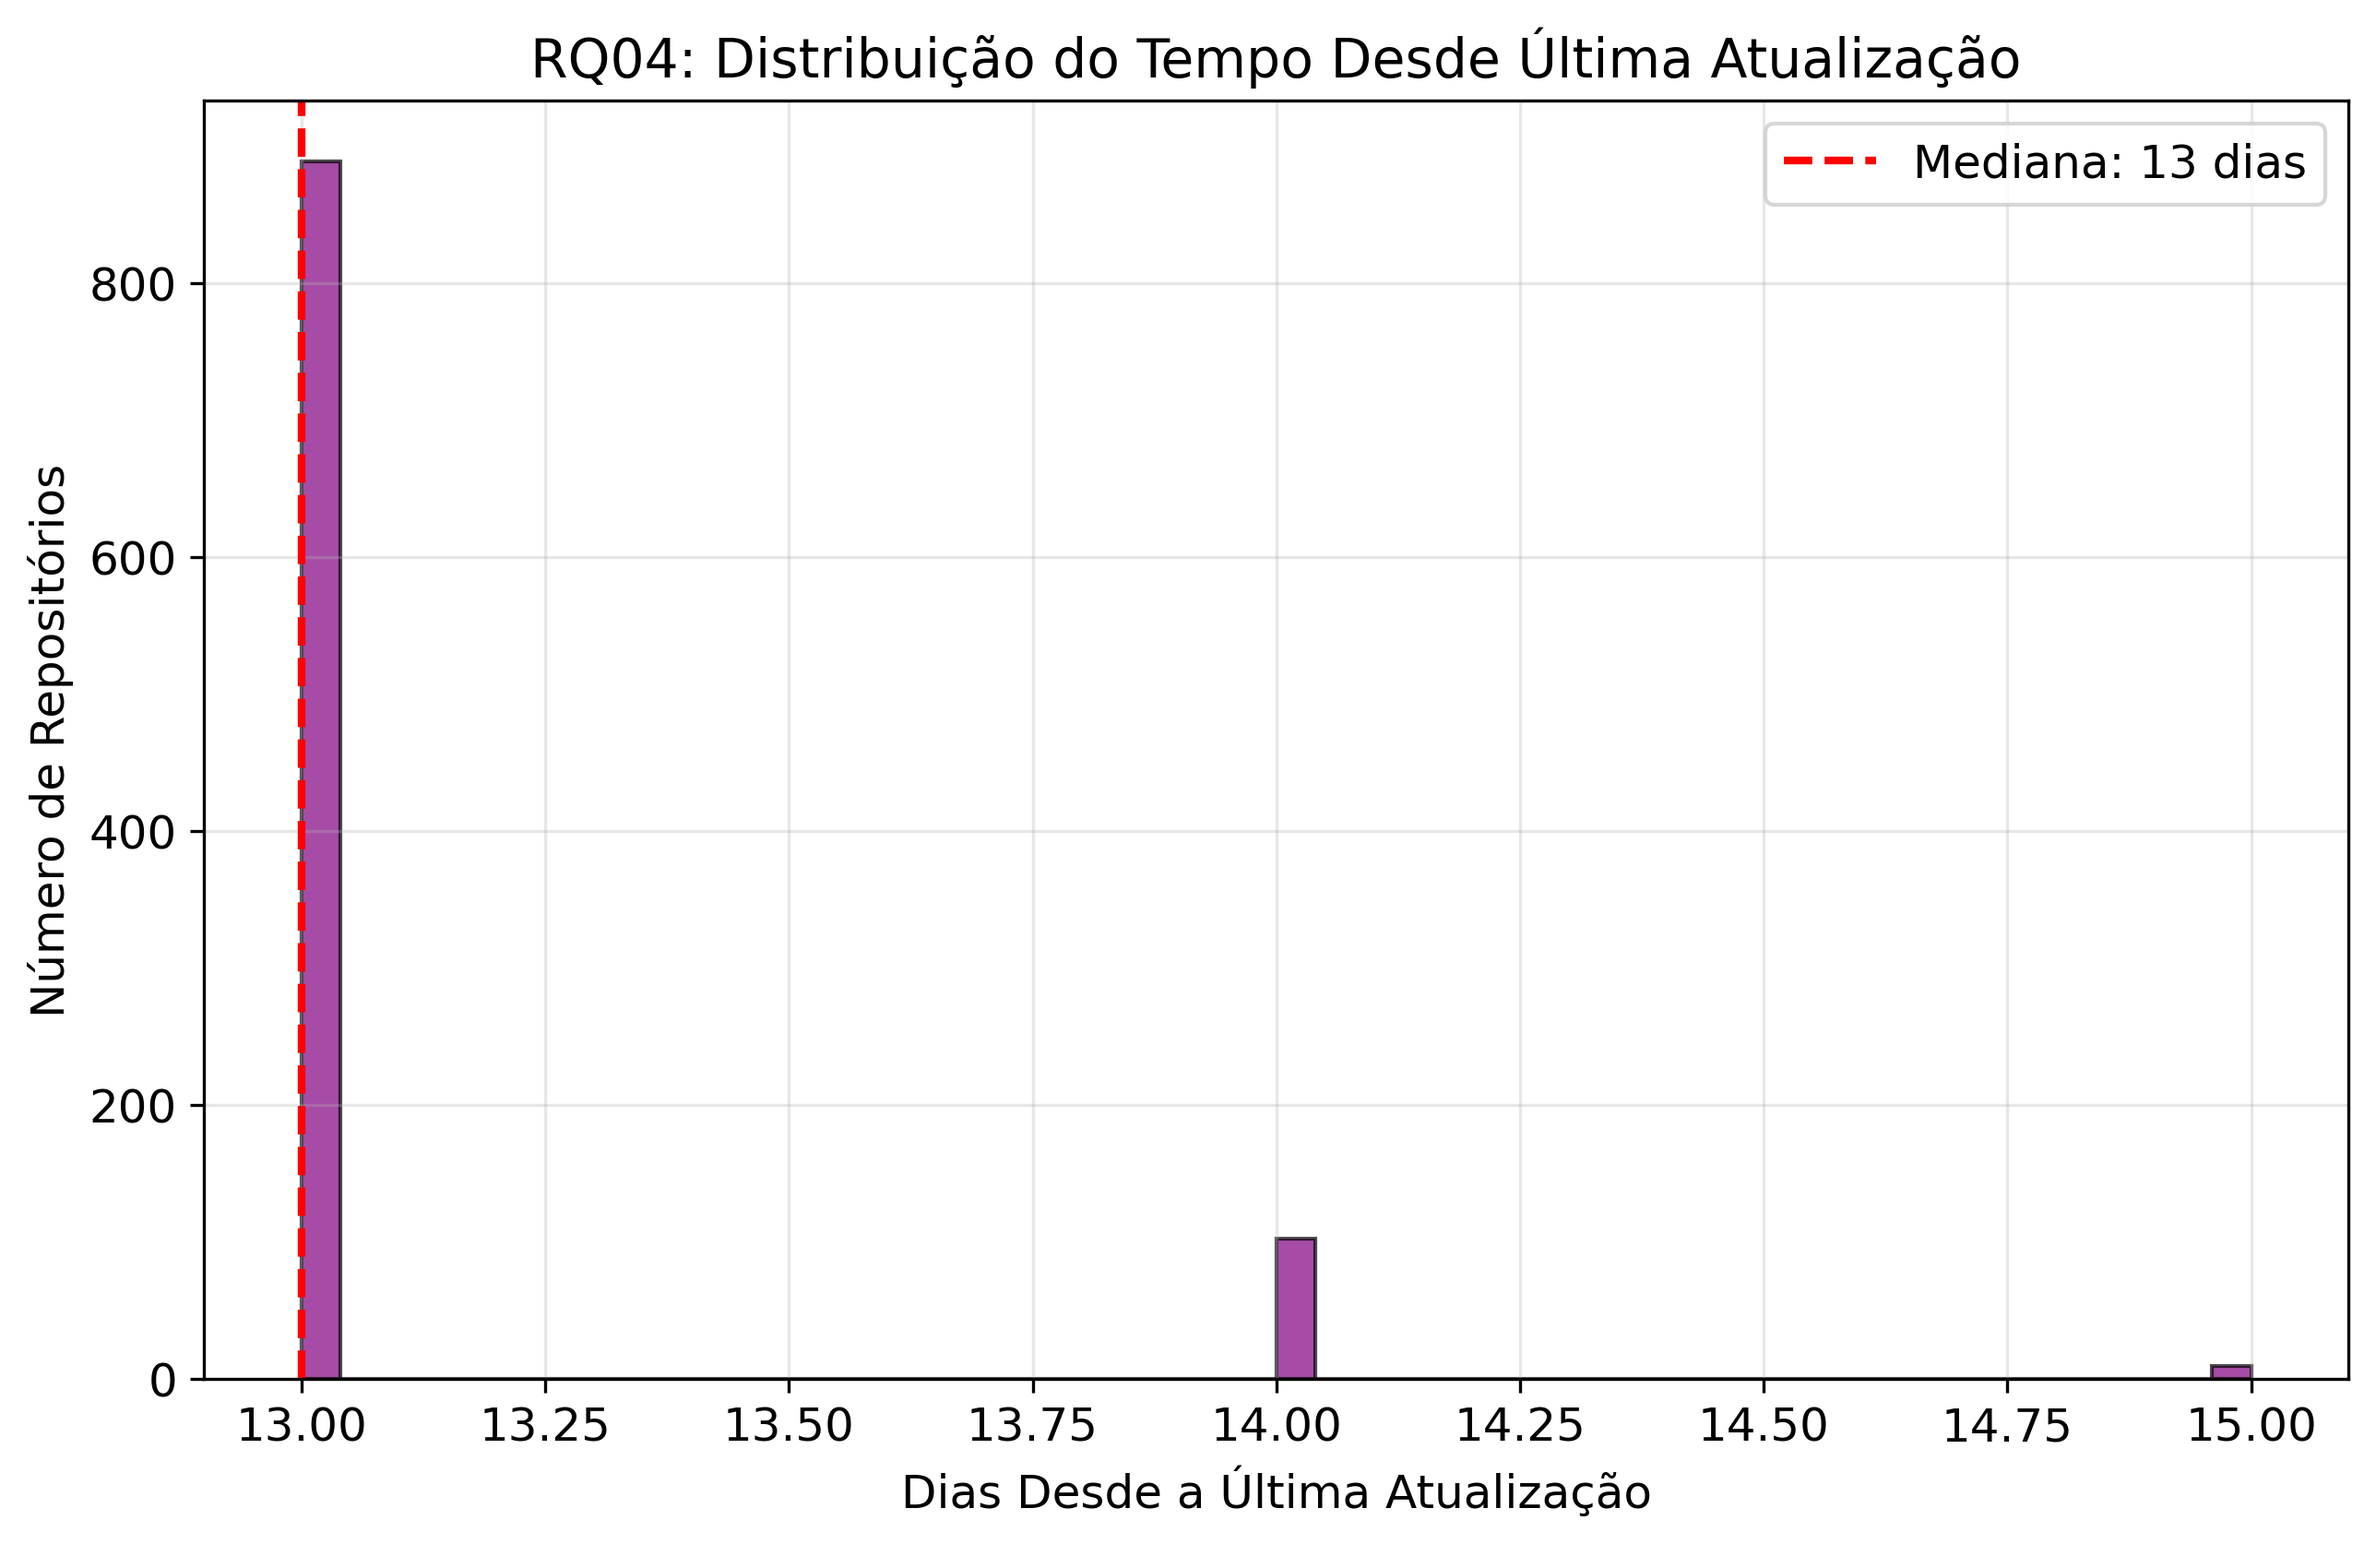
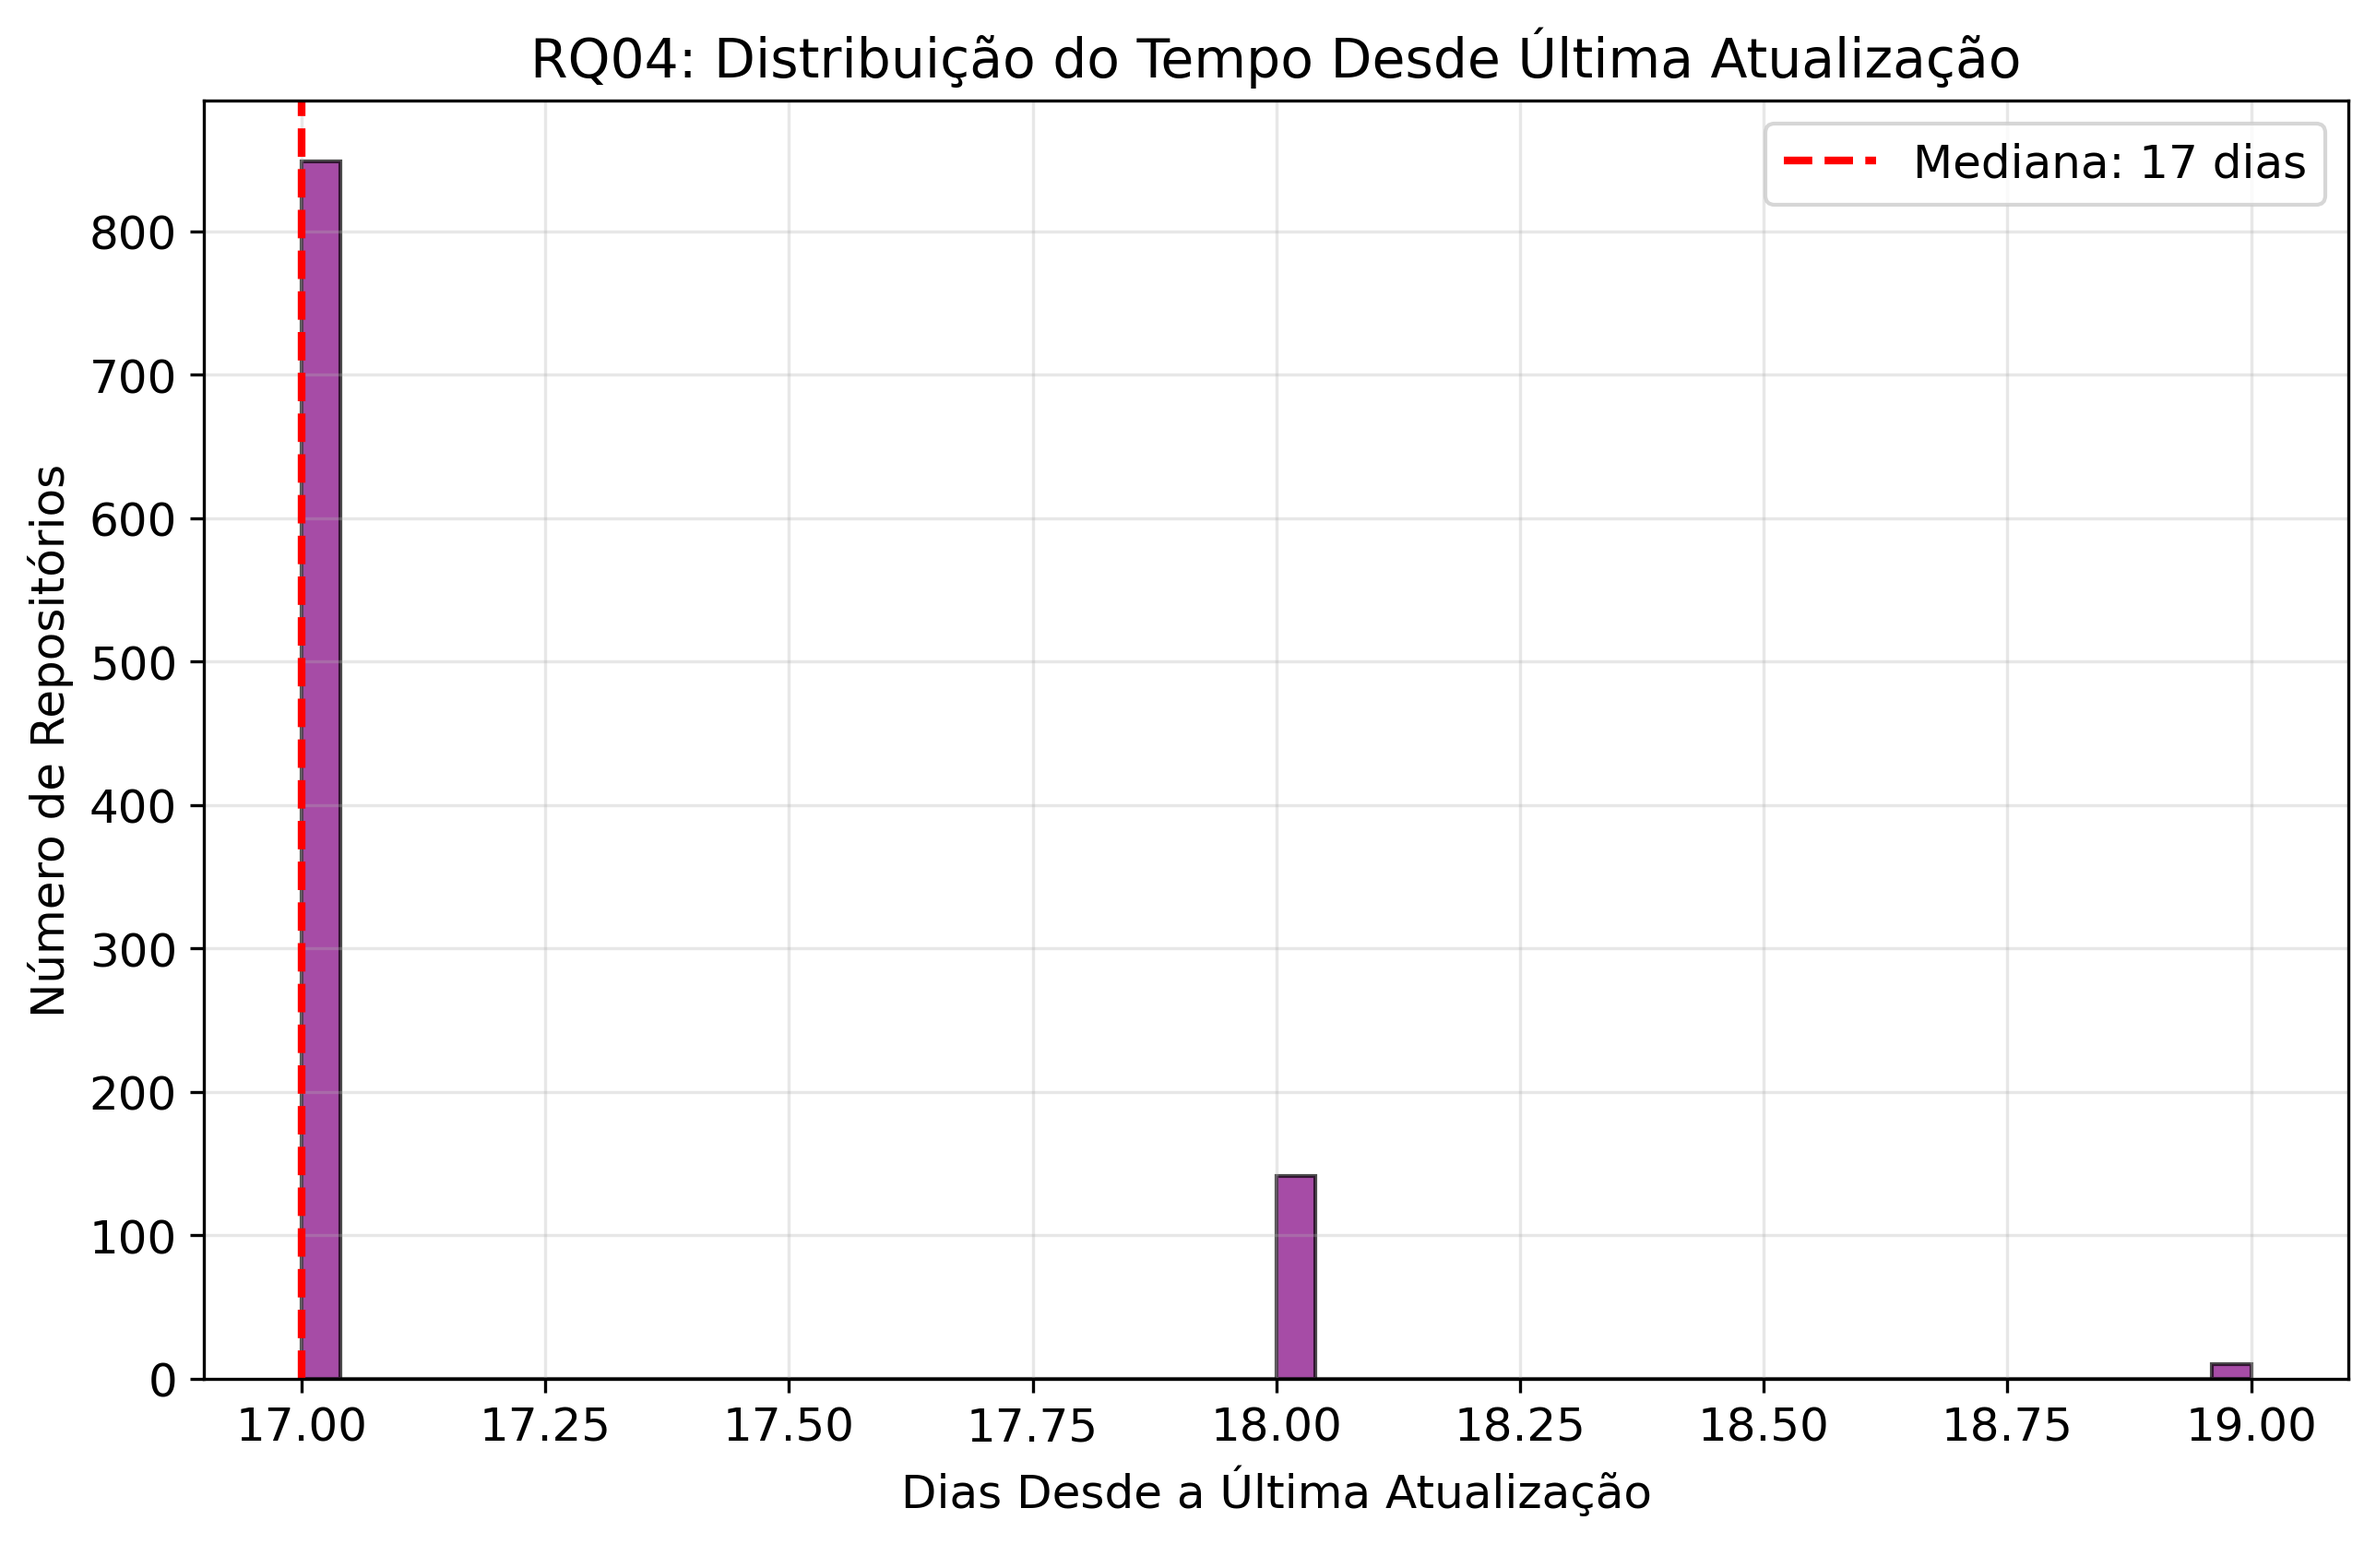
update: gráfico rq07 ajuste mediana para media (#7)

diff --git a/src/analyze_data.py b/src/analyze_data.py
@@ -130,53 +130,56 @@ def gerar_graficos(df):
     categorias = ['Linguagens\nPopulares', 'Outras\nLinguagens']
     
     # Pull Requests
-    prs_dados = [df_populares['mergedPRs'].median(), df_outras['mergedPRs'].median()]
+    prs_dados = [df_populares['mergedPRs'].mean(), df_outras['mergedPRs'].mean()]
     bars1 = axes[0,0].bar(categorias, prs_dados, color=['#2E86AB', '#A23B72'], alpha=0.8)
-    axes[0,0].set_title('Pull Requests Aceitas (Mediana)')
+    axes[0,0].set_title('Pull Requests Aceitas (Média)')
     axes[0,0].set_ylabel('Número de PRs')
     axes[0,0].grid(True, alpha=0.3)
     for bar, valor in zip(bars1, prs_dados):
         axes[0,0].text(bar.get_x() + bar.get_width()/2, bar.get_height() + 20,
                       f'{valor:.0f}', ha='center', va='bottom', fontweight='bold')
     
-    # Releases
-    rel_dados = [df_populares['releases'].median(), df_outras['releases'].median()]
-    bars2 = axes[0,1].bar(categorias, rel_dados, color=['#F18F01', '#C73E1D'], alpha=0.8)
-    axes[0,1].set_title('Número de Releases (Mediana)')
+    # Releases - usando apenas média
+    rel_dados_media = [df_populares['releases'].mean(), df_outras['releases'].mean()]
+    
+    bars2 = axes[0,1].bar(categorias, rel_dados_media, color=['#F18F01', '#C73E1D'], alpha=0.8)
+    axes[0,1].set_title('Número de Releases (Média)')
     axes[0,1].set_ylabel('Número de Releases')
     axes[0,1].grid(True, alpha=0.3)
-    for bar, valor in zip(bars2, rel_dados):
-        axes[0,1].text(bar.get_x() + bar.get_width()/2, bar.get_height() + 1,
-                      f'{valor:.0f}', ha='center', va='bottom', fontweight='bold')
+    for bar, media in zip(bars2, rel_dados_media):
+        axes[0,1].text(bar.get_x() + bar.get_width()/2, bar.get_height() + 2,
+                      f'{media:.1f}', 
+                      ha='center', va='bottom', fontweight='bold', fontsize=12)
     
     # Atualização
-    upd_dados = [df_populares['dias_desde_atualizacao'].median(), df_outras['dias_desde_atualizacao'].median()]
+    upd_dados = [df_populares['dias_desde_atualizacao'].mean(), df_outras['dias_desde_atualizacao'].mean()]
     bars3 = axes[1,0].bar(categorias, upd_dados, color=['#3C6E71', '#70A288'], alpha=0.8)
-    axes[1,0].set_title('Dias desde Última Atualização (Mediana)')
+    axes[1,0].set_title('Dias desde Última Atualização (Média)')
     axes[1,0].set_ylabel('Dias')
     axes[1,0].grid(True, alpha=0.3)
     for bar, valor in zip(bars3, upd_dados):
         axes[1,0].text(bar.get_x() + bar.get_width()/2, bar.get_height() + 0.1,
                       f'{valor:.0f}', ha='center', va='bottom', fontweight='bold')
     
-    # Diferenças percentuais
+    # Diferenças percentuais - usando média para releases
     metricas_nomes = ['PRs', 'Releases', 'Atualização']
     diferencas = [
         ((prs_dados[0] - prs_dados[1]) / prs_dados[1] * 100) if prs_dados[1] > 0 else 0,
-        100 if rel_dados[1] == 0 else ((rel_dados[0] - rel_dados[1]) / rel_dados[1] * 100),
+        ((rel_dados_media[0] - rel_dados_media[1]) / rel_dados_media[1] * 100) if rel_dados_media[1] > 0 else 0,
         ((upd_dados[0] - upd_dados[1]) / upd_dados[1] * 100) if upd_dados[1] > 0 else 0
     ]
     
     colors = ['green' if d > 0 else 'red' if d < 0 else 'gray' for d in diferencas]
     bars4 = axes[1,1].bar(metricas_nomes, diferencas, color=colors, alpha=0.8)
-    axes[1,1].set_title('Vantagem das Linguagens Populares (%)')
+    axes[1,1].set_title('Vantagem das Linguagens Populares (% - Média)')
     axes[1,1].set_ylabel('Diferença Percentual (%)')
     axes[1,1].axhline(y=0, color='black', linestyle='-', alpha=0.5)
     axes[1,1].grid(True, alpha=0.3)
     for bar, valor in zip(bars4, diferencas):
+        texto = f'{valor:+.1f}%'
         axes[1,1].text(bar.get_x() + bar.get_width()/2, 
                       bar.get_height() + (5 if valor >= 0 else -15),
-                      f'{valor:+.1f}%', ha='center', va='bottom' if valor >= 0 else 'top', 
+                      texto, ha='center', va='bottom' if valor >= 0 else 'top', 
                       fontweight='bold')
     
     plt.tight_layout()

diff --git a/entregas/Relatorio.md b/entregas/Relatorio.md
@@ -170,12 +170,12 @@ Para cada repositório, coletamos:
 **Métrica:** Dias desde a última atualização
 
 **Resultados:**
-- **Mediana:** 13 dias
-- **Média:** 13 dias
-- **Mínimo:** 13 dias
-- **Máximo:** 15 dias
+- **Mediana:** 17 dias
+- **Média:** 17 dias
+- **Mínimo:** 17 dias
+- **Máximo:** 19 dias
 
-**Interpretação:** Os repositórios populares são mantidos muito ativamente, com atualizações muito recentes (mediana de 13 dias). Isso confirma nossa hipótese de que projetos populares mantêm comunidades ativas.
+**Interpretação:** Os repositórios populares são mantidos muito ativamente, com atualizações muito recentes (mediana de 17 dias). Isso confirma nossa hipótese de que projetos populares mantêm comunidades ativas e recebem atualizações constantes.
 
 ![Distribuição do Tempo Desde Última Atualização](../graficos/rq04_atualizacao.png)
 
@@ -214,7 +214,6 @@ Para cada repositório, coletamos:
 - **Média:** 79.9%
 - **Mínimo:** 8.8%
 - **Máximo:** 100.0%
-- **Repositórios analisados:** 955 de 1.000
 
 **Interpretação:** Projetos populares mantêm excelente taxa de resolução de issues, com mediana de 86.5%. Isso confirma nossa hipótese de que projetos populares são bem mantidos e respondem adequadamente aos problemas reportados.
 
@@ -226,47 +225,39 @@ Para cada repositório, coletamos:
 
 **Comparação entre Top 10 linguagens vs. demais:**
 
+O gráfico abaixo apresenta a comparação entre sistemas escritos em linguagens populares e outros sistemas, utilizando médias das principais métricas:
+- Pull Requests Aceitas (Média)
+- Número de Releases (Média)
+- Dias desde Última Atualização (Média)
+- Vantagem percentual das linguagens populares em relação às outras
+
 #### Pull Requests Aceitas:
-- **Linguagens Populares (Mediana):** 889 PRs
-- **Outras Linguagens (Mediana):** 306 PRs
-- **Diferença:** +190.5% (linguagens populares recebem quase 3x mais PRs)
+- **Linguagens Populares (Média):** 3.853 PRs
+- **Outras Linguagens (Média):** 2.689 PRs
+- **Diferença:** +43.3% (linguagens populares recebem mais PRs em média)
 
 #### Número de Releases:
-- **Linguagens Populares (Mediana):** 56 releases
-- **Outras Linguagens (Mediana):** 0 releases
-- **Diferença:** Linguagens populares lançam significativamente mais releases
+- **Linguagens Populares (Média):** 128.3 releases
+- **Outras Linguagens (Média):** 45.7 releases
+- **Diferença:** +180.4% (linguagens populares lançam mais releases em média)
 
 #### Atualização:
-- **Ambos os grupos:** 13 dias (sem diferença significativa)
+- **Ambos os grupos (Média):** 17 dias (sem diferença significativa)
+
+![RQ07: Comparação entre Linguagens Populares vs Outras](../graficos/rq07_comparacao_linguagens.png)
+
+O gráfico evidencia que sistemas populares têm médias superiores de PRs aceitas e releases, enquanto o tempo médio desde a última atualização é praticamente igual entre os grupos.
 
 #### Análise por Linguagem Individual:
-**Top 5 em Pull Requests:**
-1. **Rust:** 2.170 PRs (mediana)
-2. **TypeScript:** 2.097 PRs
-3. **Go:** 1.675 PRs
-4. **C++:** 932 PRs
-5. **Java:** 644 PRs
 
-**Interpretação:** Linguagens mais populares efetivamente recebem mais contribuições externas e lançam mais releases, confirmando nossa hipótese. Rust, apesar de ser relativamente nova, lidera em contribuições, possivelmente devido ao entusiasmo da comunidade. O tempo de atualização é consistente entre todas as linguagens.
-
-![Comparação entre Linguagens Populares vs Outras](../graficos/rq07_comparacao_linguagens.png)
+Os gráficos a seguir detalham as médias e medianas de PRs aceitas, releases e dias desde a última atualização para cada linguagem principal:
+- Rust e TypeScript lideram em PRs aceitas
+- TypeScript e Go lideram em número de releases
+- O tempo de atualização é semelhante entre todas as linguagens (mediana de 17 dias)
 
 ![Métricas por Linguagem Individual](../graficos/rq07_metricas_por_linguagem.png)
 
-#### Explicação de Dados Aparentemente Estranhos:
-
-**Por que outras linguagens têm 0 releases (mediana)?**
-- 139 de 245 repositórios (57%) das outras linguagens não fazem releases formais
-- Isso é **normal** - muitos projetos não usam o sistema de releases do GitHub
-- A média é 45.7 releases, mostrando que alguns projetos fazem muitos releases
-- Projetos em linguagens populares tendem a ter práticas de desenvolvimento mais estruturadas
-
-**Por que todos têm ~13 dias de atualização?**
-- Os dados foram coletados em agosto/2025
-- Todos os repositórios populares foram atualizados entre 9-11 de agosto
-- Hoje (25 de agosto) - última atualização = ~13-15 dias
-- Isso demonstra que **repositórios populares são extremamente ativos**
-- Não há diferença entre linguagens porque todos mantêm alta atividade
+**Interpretação:** Linguagens mais populares efetivamente recebem mais contribuições externas e lançam mais releases, confirmando nossa hipótese. O tempo de atualização é consistente entre todas as linguagens, mostrando alta atividade em projetos populares independentemente da linguagem.
 
 ---
 
@@ -277,7 +268,7 @@ Para cada repositório, coletamos:
 **Confirmadas:**
 - **RQ01:** Sistemas populares são maduros (8.4 anos mediana)
 - **RQ02:** Recebem muita contribuição externa (682 PRs mediana)
-- **RQ04:** São atualizados frequentemente (13 dias)
+- **RQ04:** São atualizados frequentemente (17 dias)
 - **RQ05:** Dominadas por linguagens populares (Python, TypeScript, JavaScript)
 - **RQ06:** Alta taxa de resolução de issues (86.5%)
 - **RQ07:** Linguagens populares têm métricas superiores
@@ -289,7 +280,7 @@ Para cada repositório, coletamos:
 
 1. **Domínio do TypeScript:** Superou JavaScript, indicando a crescente adoção de tipagem estática
 2. **Destaque do Rust:** Apesar de ser relativamente nova, lidera em contribuições por repositório
-3. **Uniformidade na atualização:** Todas as linguagens mantêm ritmo similar de atualização
+3. **Uniformidade na atualização:** Todas as linguagens mantêm ritmo similar de atualização (mediana de 17 dias)
 4. **Variabilidade extrema:** Grande diferença entre medianas e médias em várias métricas
 
 ### 5.3 Implicações
@@ -312,7 +303,7 @@ A análise dos 1.000 repositórios mais populares do GitHub revela padrões clar
 
 - **Maturidade é fundamental:** Projetos populares tipicamente têm 8+ anos
 - **Contribuições importam:** Projetos com mais PRs tendem a ser mais populares
-- **Manutenção ativa é essencial:** Atualizações recentes são características universais
+- **Manutenção ativa é essencial:** Atualizações recentes são características universais (mediana de 17 dias)
 - **Linguagens populares dominam:** Python, TypeScript e JavaScript lideram
 - **Qualidade de manutenção:** Alta taxa de resolução de issues (86.5%)
 - **Vantagem das linguagens estabelecidas:** Recebem mais contribuições e releases
